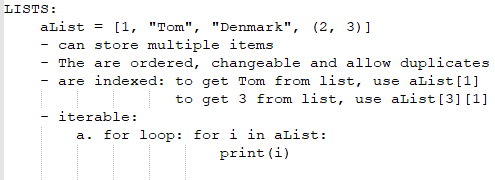
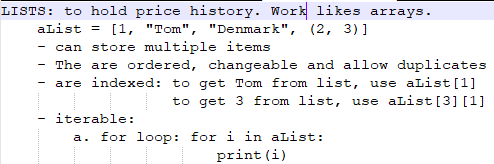
testing notes

diff --git a/classes+unitTests/stockAnalysis/README.md b/classes+unitTests/stockAnalysis/README.md
@@ -13,7 +13,7 @@
     </ul>
 5. Data structures used:
     <ul>
-    <li>list: to hold price history. Work surprisingly well as arrays</li>
+    <li><img src ="lists.PNG">Lists</img></li>
     <li>dictionary: to hold stock object</li>
     </ul> 
     <h3>must revise retrieval class</h3>
